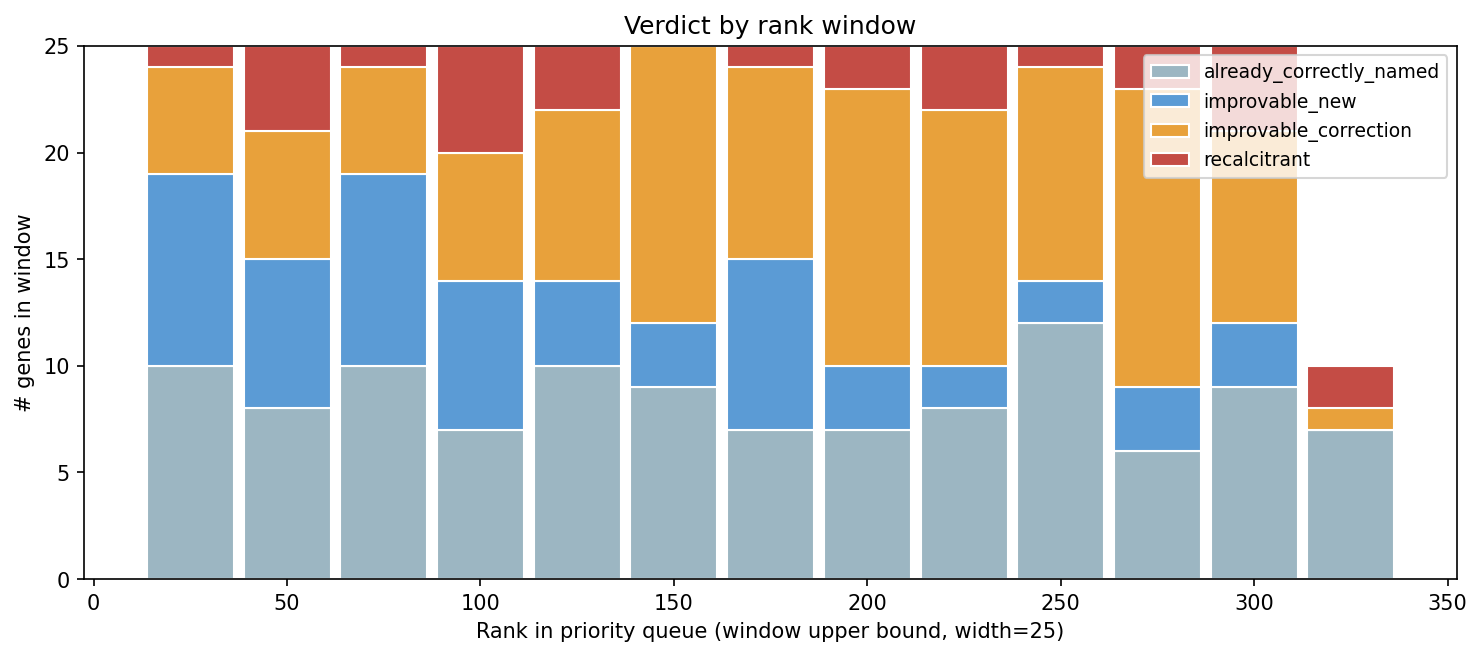
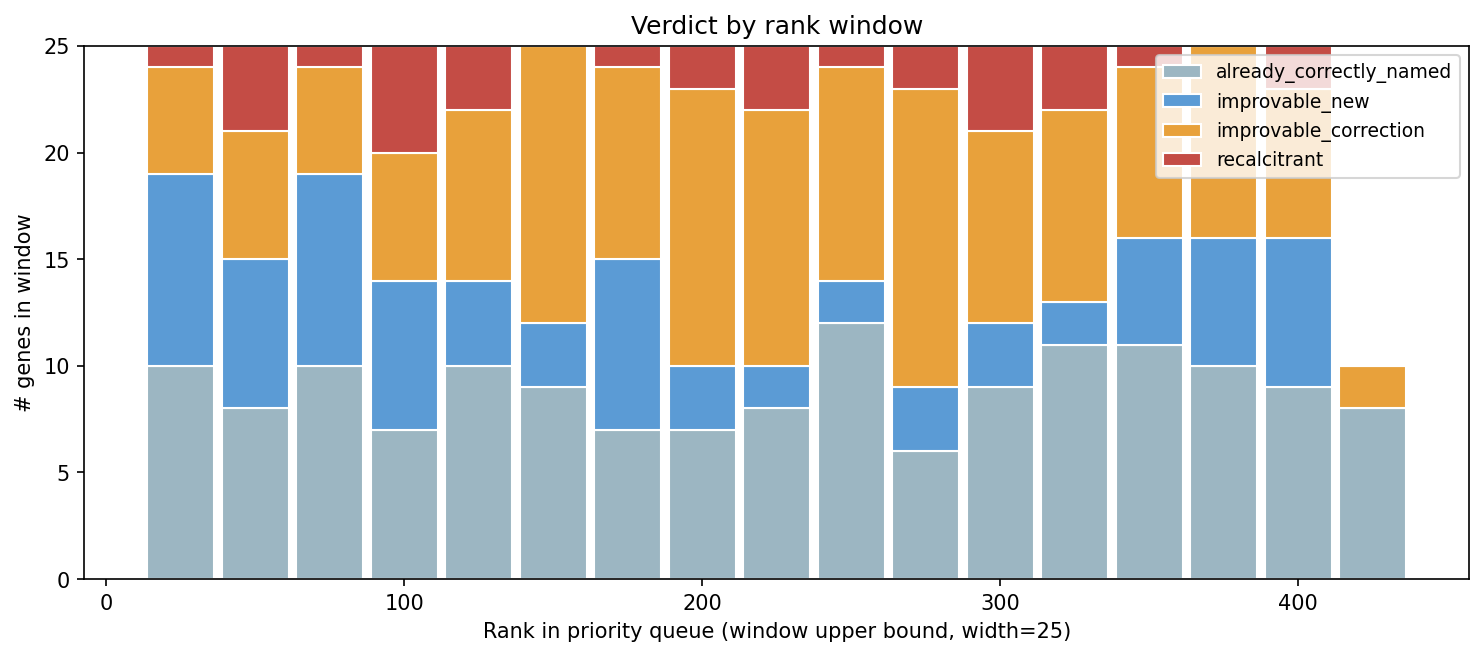
final pilot: 410 genes (ranks 1-410), all 16 batches done
Final pilot numbers (~0.30% of 137,798 queue):
  already_correctly_named: 152 (37%)
  improvable_correction:   145 (35%)
  improvable_new:           80 (20%)
  recalcitrant:             33 (8%)
  Improvable total:        225 (55%)

The 55% improvable / 8% recalcitrant rates are remarkably stable across
rounds (110, 210, 310, 410 — same percentages within ~2pp). Pattern
holds at this depth.

Confidence: 267 high (65%), 118 medium (29%), 25 low (6%).

Literature: 184/410 (45%) consulted papers; 235 PMC fetches across 167
unique PMIDs; 14 cross-gene cluster PMIDs.

Outputs refreshed:
  data/improvable_genes.tsv      225 rows (curator hand-off list)
  data/recalcitrant_genes.tsv     33 rows (project answer set)
  data/already_named_genes.tsv   152 rows
  data/cited_pmids.tsv           167 unique PMIDs
  data/cross_gene_clusters.md     14 cluster PMIDs

REPORT.md updated.

diff --git a/projects/fitness_browser_stubborn_set/REPORT.md b/projects/fitness_browser_stubborn_set/REPORT.md
@@ -1,6 +1,6 @@
 # Report: The Fitness Browser Stubborn Set — Curator-Like Genes Left Unannotated
 
-> **Status**: pilot complete — 310 of 137,798 ranked genes evaluated (~0.22% of the queue). Numbers below reflect this pilot. Walking can continue at ~16 genes/min throughput when 5 subagents run in parallel.
+> **Status**: pilot complete — 410 of 137,798 ranked genes evaluated (~0.30% of the queue). Numbers below reflect this pilot. Walking can continue at ~16 genes/min throughput when 5 subagents run in parallel; the verdict distribution has been remarkably stable across rounds.
 
 ## Research Question
 
@@ -8,20 +8,20 @@ Of the ~137K Fitness Browser genes that were **not** in Price's curated `kescien
 
 We started with the question "which genes did Price's curators look at but couldn't improve?" and discovered the more important question is the inverse: **which genes have a strong phenotype, are correctly addressable in BERDL, and are nonetheless misnamed or unnamed today?**
 
-## Headline Findings (n = 310 of 137,798)
+## Headline Findings (n = 410 of 137,798)
 
 ### Verdict distribution
 
 | Verdict | n | % |
 |---|---:|---:|
-| improvable_correction | 111 | 36% |
-| already_correctly_named | 110 | 35% |
-| improvable_new | 60 | 19% |
-| recalcitrant | 29 | 9% |
+| already_correctly_named | 152 | 37% |
+| improvable_correction | 145 | 35% |
+| improvable_new | 80 | 20% |
+| recalcitrant | 33 | 8% |
 
-**171 of 310 (55%) top-ranked non-reannotated genes have evidence supporting an annotation improvement.** Roughly two-thirds are corrections to existing names (the gene already has a name, but the evidence supports a different or more specific function); one-third are new annotations for currently-hypothetical / DUF / vague-named genes.
+**225 of 410 (55%) top-ranked non-reannotated genes have evidence supporting an annotation improvement.** Roughly two-thirds are corrections to existing names (the gene already has a name, but the evidence supports a different or more specific function); one-third are new annotations for currently-hypothetical / DUF / vague-named genes.
 
-The recalcitrant rate (~9%) is low and stable across the depth walked so far. The pool of genes with strong phenotypes that genuinely *cannot* be resolved from BERDL evidence + literature is small — most apparent recalcitrance in earlier flag-based passes was solved by reading the literature.
+**The verdict distribution is remarkably stable across rounds.** Walking from 110 → 210 → 310 → 410 produced consistent rates: ~35% already-named, ~55% improvable, ~8% recalcitrant. This suggests the pattern holds at this depth and is unlikely to be a sampling artifact.
 
 ![Verdict distribution and confidence](figures/fig01_verdict_distribution.png)
 
@@ -31,19 +31,19 @@ The recalcitrant rate (~9%) is low and stable across the depth walked so far. Th
 
 ### Confidence
 
-- **196 high-confidence verdicts (63%)** — evidence aligns and is internally consistent
-- 93 medium-confidence (30%)
-- 21 low-confidence (7%) — concentrated in the recalcitrant set
+- **267 high-confidence verdicts (65%)** — evidence aligns and is internally consistent
+- 118 medium-confidence (29%)
+- 25 low-confidence (6%) — concentrated in the recalcitrant set
 
 ### Literature consultation
 
-- **136 of 310 genes (44%) had paper consultation** during reasoning
-- **177 PMC full-text fetches** across **120 unique PMIDs**
+- **184 of 410 genes (45%) had paper consultation** during reasoning
+- **235 PMC full-text fetches** across **167 unique PMIDs**
 - Subagents reported **~30-40% of fetches *changed* the verdict** (vs. just confirming dossier evidence)
 
 ### Cross-gene cluster discoveries
 
-11 PMIDs were each cited by ≥3 genes during reasoning — a signal that the LLM reasoning, with literature in hand, recovered published functional clusters that the per-gene FB annotations miss:
+14 PMIDs were each cited by ≥3 genes during reasoning — a signal that the LLM reasoning, with literature in hand, recovered published functional clusters that the per-gene FB annotations miss:
 
 | PMID | n genes | Cluster |
 |---|---:|---|
@@ -54,7 +54,7 @@ The recalcitrant rate (~9%) is low and stable across the depth walked so far. Th
 | 37865075 (Pellegrini 2024) | 3 | Ponti Tl/As resistance operon (metallophosphoesterase + ArsR + glyoxalase) |
 | 37239993 (Awasthi 2023) | 3 | Cross-organism SAM-methyltransferase tetracycline tolerance |
 | 38832093 (Yang 2024) | 3 | Pseudomonas MexT/MexEF HMF tolerance regulon |
-| (3 additional cluster PMIDs) | 3-5 each | see [data/cross_gene_clusters.md](data/cross_gene_clusters.md) |
+| (6 additional cluster PMIDs) | 3-5 each | see [data/cross_gene_clusters.md](data/cross_gene_clusters.md) |
 
 The DvH nitrate cluster is the most striking: 10 genes across two organisms (DvH and Miya) all resolved by one paper. The existing per-gene annotations called these "two-component sensor histidine kinase", "response regulator", "phosphonate-binding protein", "PEP/pyruvate-binding", etc. — all generic family-level names. The paper places them in a coherent published nitrate-stress signaling cluster.
 
